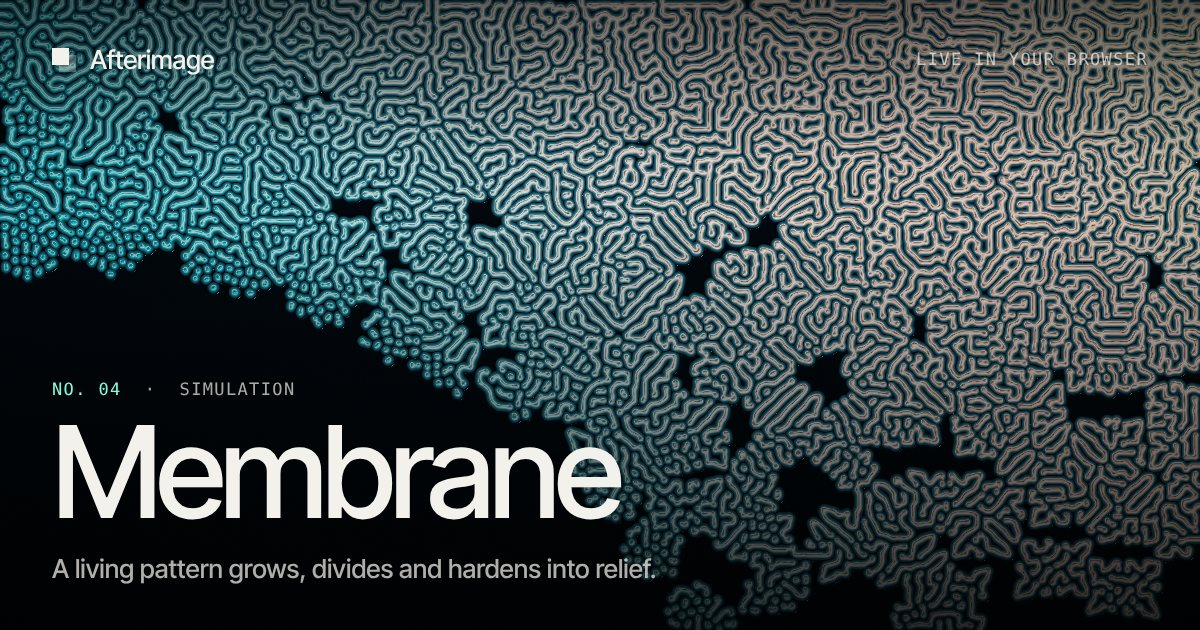
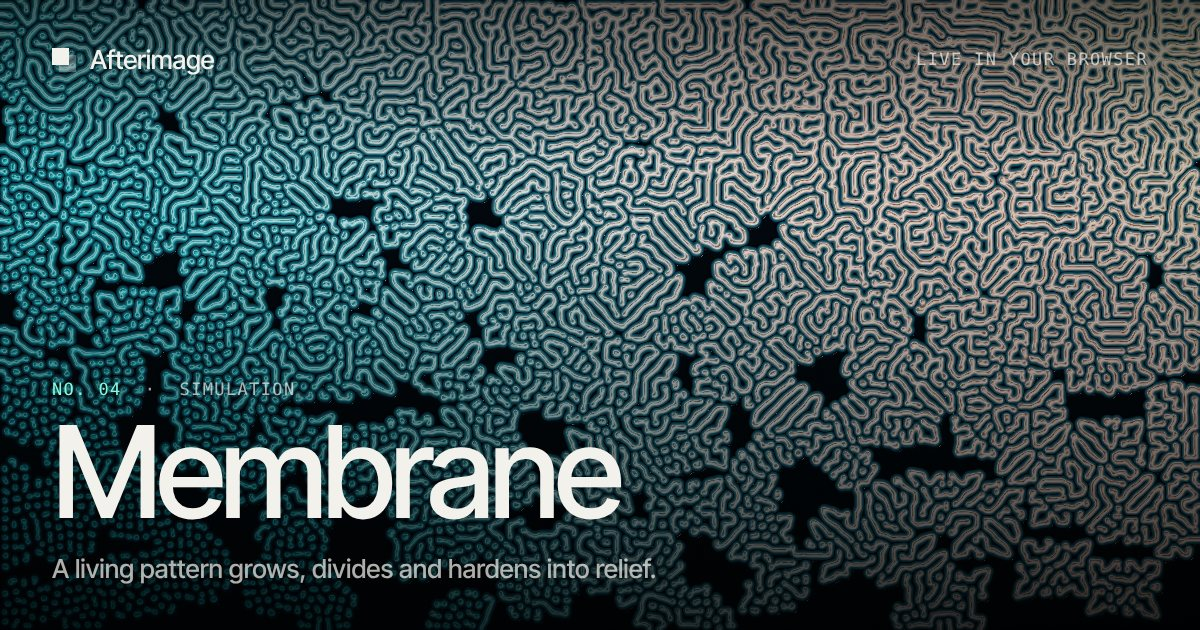
Membrane: cover the corner again, quietly
The pattern runs edge to edge again. Under the title it is drawn dim and
flat instead of being killed off, which left an odd empty corner.

Claude-Session: https://claude.ai/code/session_01NZcfqFs5NNZUQPpxbWQ2AQ

Changed region(s): [[0.0, 0.2413, 0.5858, 1.0], [0.2158, 0.3317, 0.3083, 0.3921]]

diff --git a/src/effects/index.ts b/src/effects/index.ts
@@ -221,9 +221,9 @@ const ENTRIES: readonly Entry[] = [
       idea: "A living pattern grown by two chemicals reacting, lit from the side so it reads as relief, like coral or skin.",
       firstSeconds: "Dense and organic: maze-like ridges cover the frame and creep outward, with spots dividing where the balance shifts.",
       interaction: "Moving the pointer paints fresh chemical into the medium, so new growth starts under your hand and spreads into the pattern.",
-      headline: "The lower left. The kill rate climbs toward that corner until nothing survives, so the growth breaks into scattered spots and then a calm dark shore under the title.",
+      headline: "The lower left. The pattern still runs into the corner, but there it is drawn dim and flat, so the title sits on a quiet continuation of the growth.",
       nearest: "Iridescent Silk, the other surface lit as relief. Silk is a folded sheet in motion; this surface is grown, and it keeps rebuilding its own structure.",
-      risks: "Fine detail everywhere fights type, which is why the lower left is kept barren. Twelve simulation steps per frame are cheap one by one but add up on a large screen.",
+      risks: "Fine detail everywhere fights type, which is why it goes quiet under the title. Twelve simulation steps per frame are cheap one by one but add up on a large screen.",
     },
     technical: {
       insight: "Two invented chemicals react and spread across the image.",
